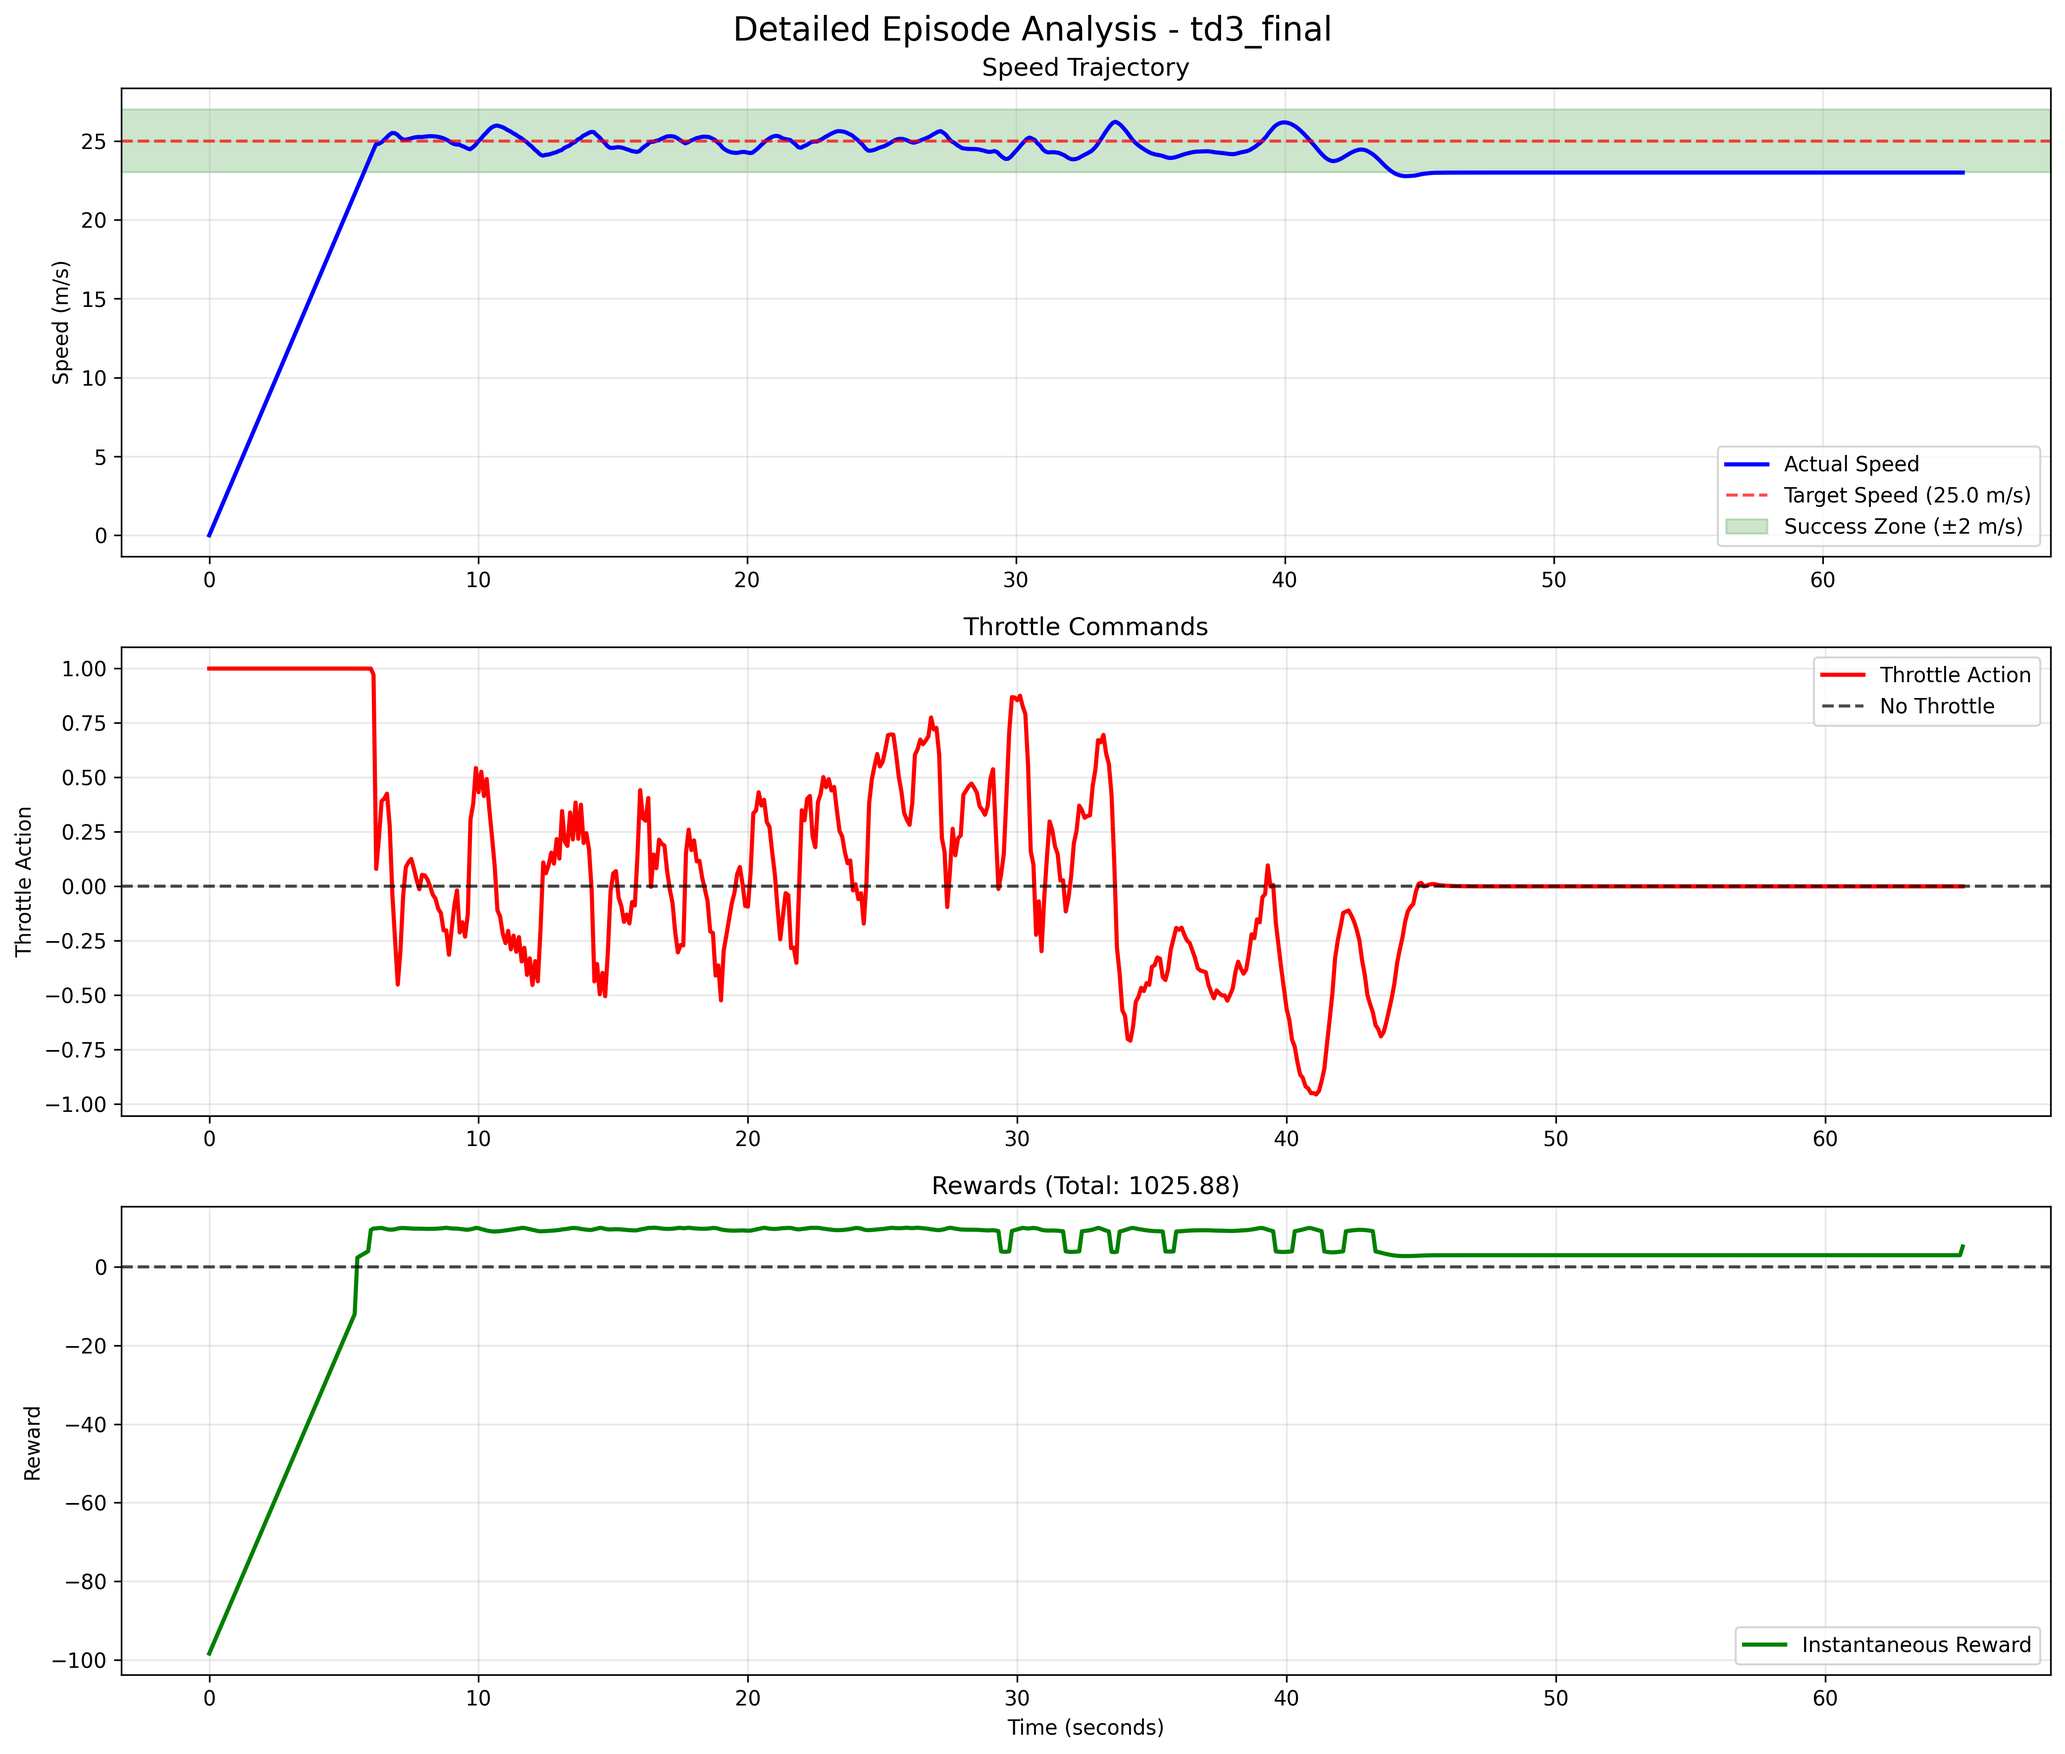
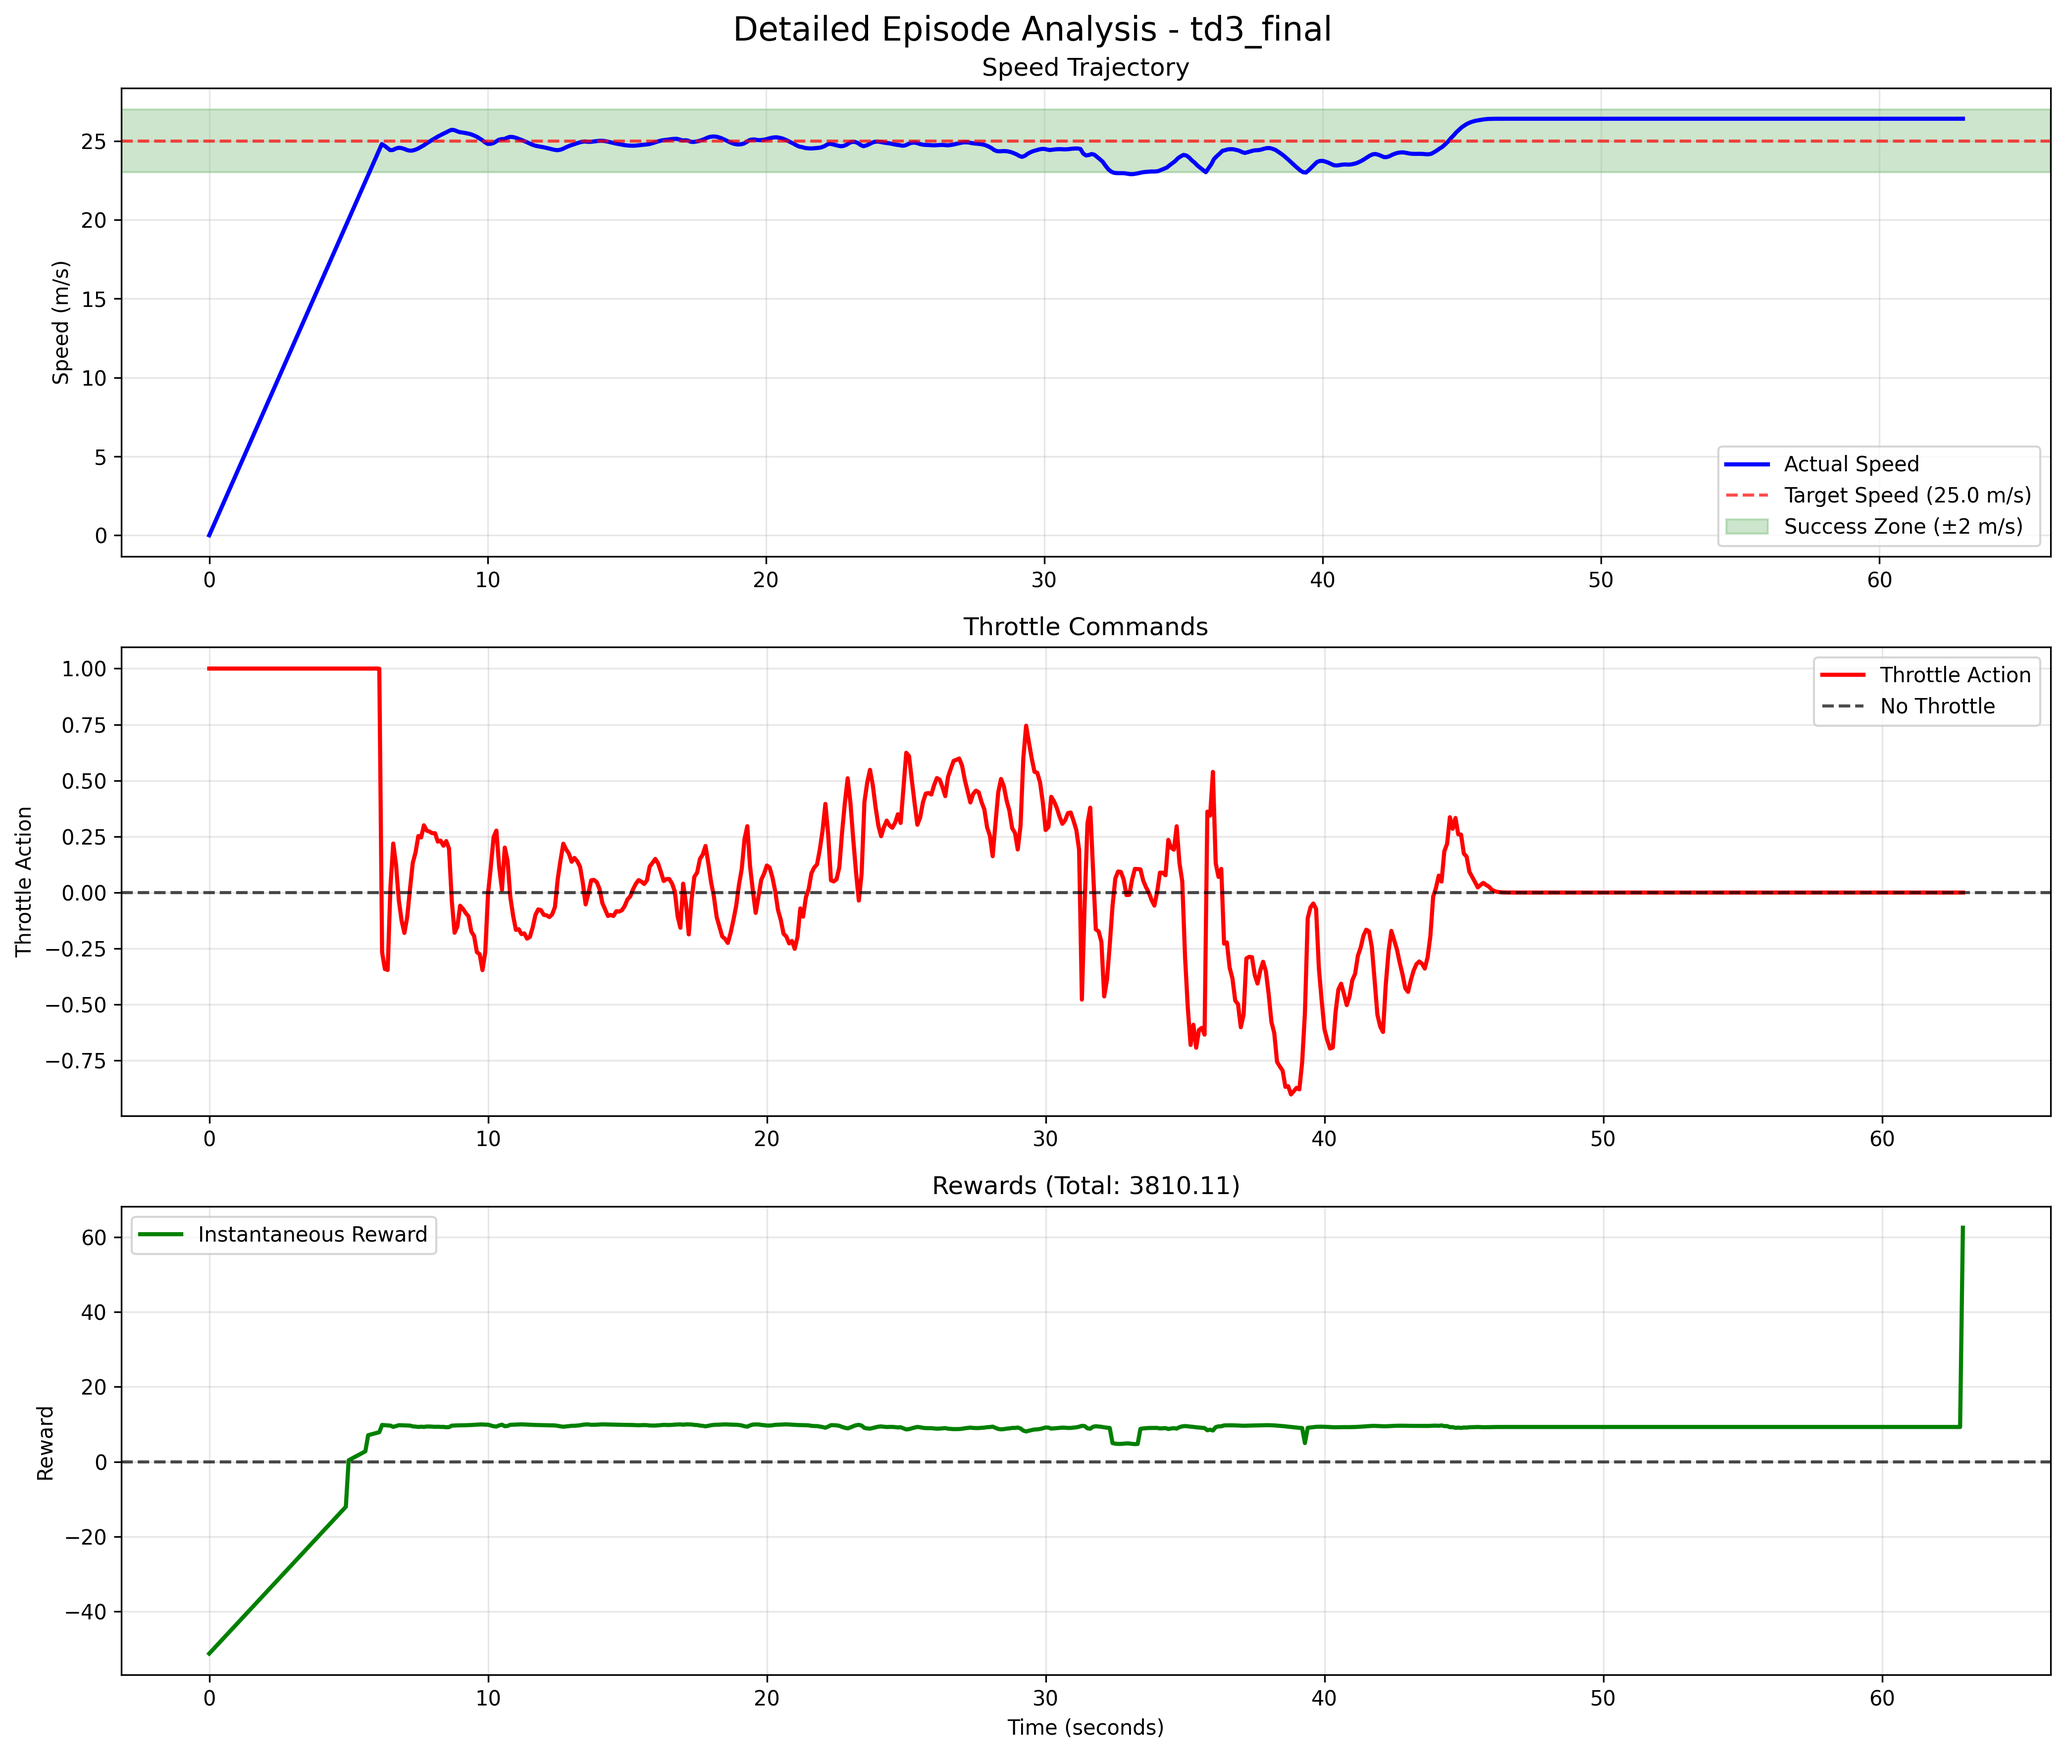
latest

diff --git a/car_env.py b/car_env.py
@@ -33,7 +33,7 @@ class CarThrottleEnv(gym.Env):
         self.action_space = spaces.Box(low=-1.0, high=1.0, shape=(1,), dtype=np.float32)
 
         # Fuel usage penalty settings (only positive throttle consumes fuel)
-        self.fuel_penalty_coeff = 8  # penalty per unit fuel used
+        self.fuel_penalty_coeff = 20.0  # penalty per unit fuel used (reduced to encourage efficiency)
         self.total_fuel_used = 0.0
 
     def reset(self, seed=None, options=None):
@@ -75,16 +75,16 @@ class CarThrottleEnv(gym.Env):
         self.total_fuel_used += fuel_used
         
         # Base reward for maintaining target speed (higher is better)
-        if speed_error < 1.0:  # Very close to target
-            reward = 10.0 - speed_error # ~10
-        elif speed_error < 3.0:  # Reasonably close
-            reward = 5.0 - speed_error  # ~5
+        # More tolerant of strategic speed variations for momentum-based driving
+        if speed_error < 2.0:  # Expanded tolerance zone for close to target
+            reward = 10.0 - speed_error * 0.5  # ~10,  Gentler penalty for small deviations
+        elif speed_error < 5.0:  # Expanded reasonably close zone  
+            reward = 7.0 - speed_error  # ~2-5
         else:  # Far from target
-            reward = -speed_error * 4.0
+            reward = -speed_error * 2.0  # Reduced harsh penalty (was 4.0)
 
-  
-        # reward -= self.fuel_penalty_coeff * fuel_used
-        # reward -= -0.5 *0.5 * [-1,1] -> [-4,4]
+        # Enable fuel penalty to encourage efficient momentum-based driving
+        reward -= self.fuel_penalty_coeff * fuel_used
 
 
        

diff --git a/train.py b/train.py
@@ -26,7 +26,7 @@ def main():
     max_action = float(env.action_space.high[0])
     
     # Training parameters
-    max_episodes = 200
+    max_episodes = 1000
     max_timesteps = 1000
     batch_size = 256
     exploration_noise = 0.2  # Note: policy adds its own noise; this var is informational only
@@ -77,8 +77,9 @@ def main():
             state = next_state
             episode_reward += reward
             
-            # Train agent after collecting enough data
-            if len(replay_buffer) > batch_size:
+            # Train agent after collecting enough data  
+            # Train every 2 steps to allow more diverse experience collection for momentum learning
+            if len(replay_buffer) > batch_size and total_timesteps % 2 == 0:
                 agent.train(replay_buffer, batch_size)
             
             if done:

diff --git a/td3.py b/td3.py
@@ -146,7 +146,7 @@ class TD3:
         action = self.actor(state).cpu().data.numpy().flatten()
         
         if add_noise:
-            noise = np.random.normal(0, self.max_action * 0.1, size=action.shape)  # Increased exploration noise
+            noise = np.random.normal(0, self.max_action * 0.3, size=action.shape)  # Slightly increased exploration for momentum discovery
             action = action + noise
             action = np.clip(action, -self.max_action, self.max_action)
             
